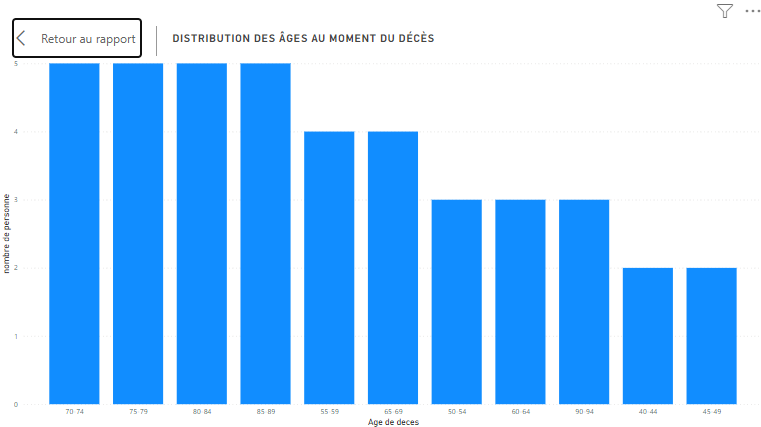
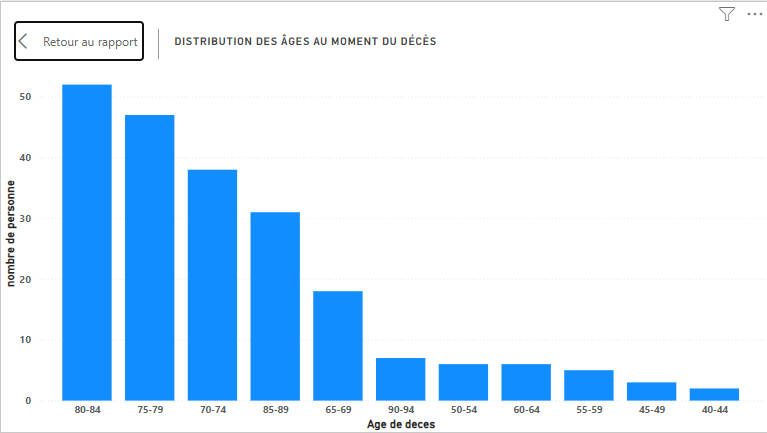
conclusion et capture d'ecran

diff --git a/README.md b/README.md
@@ -1,6 +1,5 @@
 # Dr Death
 ## Le médecin meurtrier
-![alt text](<image/distribution des âges au moment du décès.png>)
 
 # Introduction
 
@@ -41,5 +40,14 @@ Power BI Desktop vous permet de vous connecter aux données de nombreuses source
 
 Toutes ces visualisations peuvent être ajoutées à des rapports Power BI, spécifiées dans Q&A, et épinglées à des tableaux de bord. Les graphiques en aires, les graphiques à barres et les histogrammes, les cartes, les graphiques combinés sont quelques exemples de visualisations disponibles dans Power BI.
 
-# Conclusion
+# analyse des données
 D’après l’analyse des donnee, nous pouvons conclure que les crimes commis par le Dr. Mort présentent des tendances spécifiques. Les victimes étaient majoritairement des femmes âgés, avec une concentration particulière dans les groupes d’âge de 70 à 89 ans. Il y a eu une augmentation notable du nombre de décès autour de l’année 1995. De plus, la majorité des décès ont eu lieu à la maison personnelle des victimes. Ces informations auraient pu servir d’indicateurs précoces pour identifier les activités criminelles du Dr. Mort.
+
+![alt text](<image/distribution des âges au moment du décès.png>)
+On peut voir sur ce graphique que les cible de dr. Harold Shipman son principalement de âgée entre 70 et 89.
+
+![alt text](<image/le nombre de décès par année.png>)
+Ce graphique démontre le nombre de décès par année, on peut voir un pic de décès en 1997 avec plus de 36 morts. 
+
+![alt text](<image/lieu de décès.png>)
+On peut observer que la plupart des victimes sont décédées à leur domicile.
